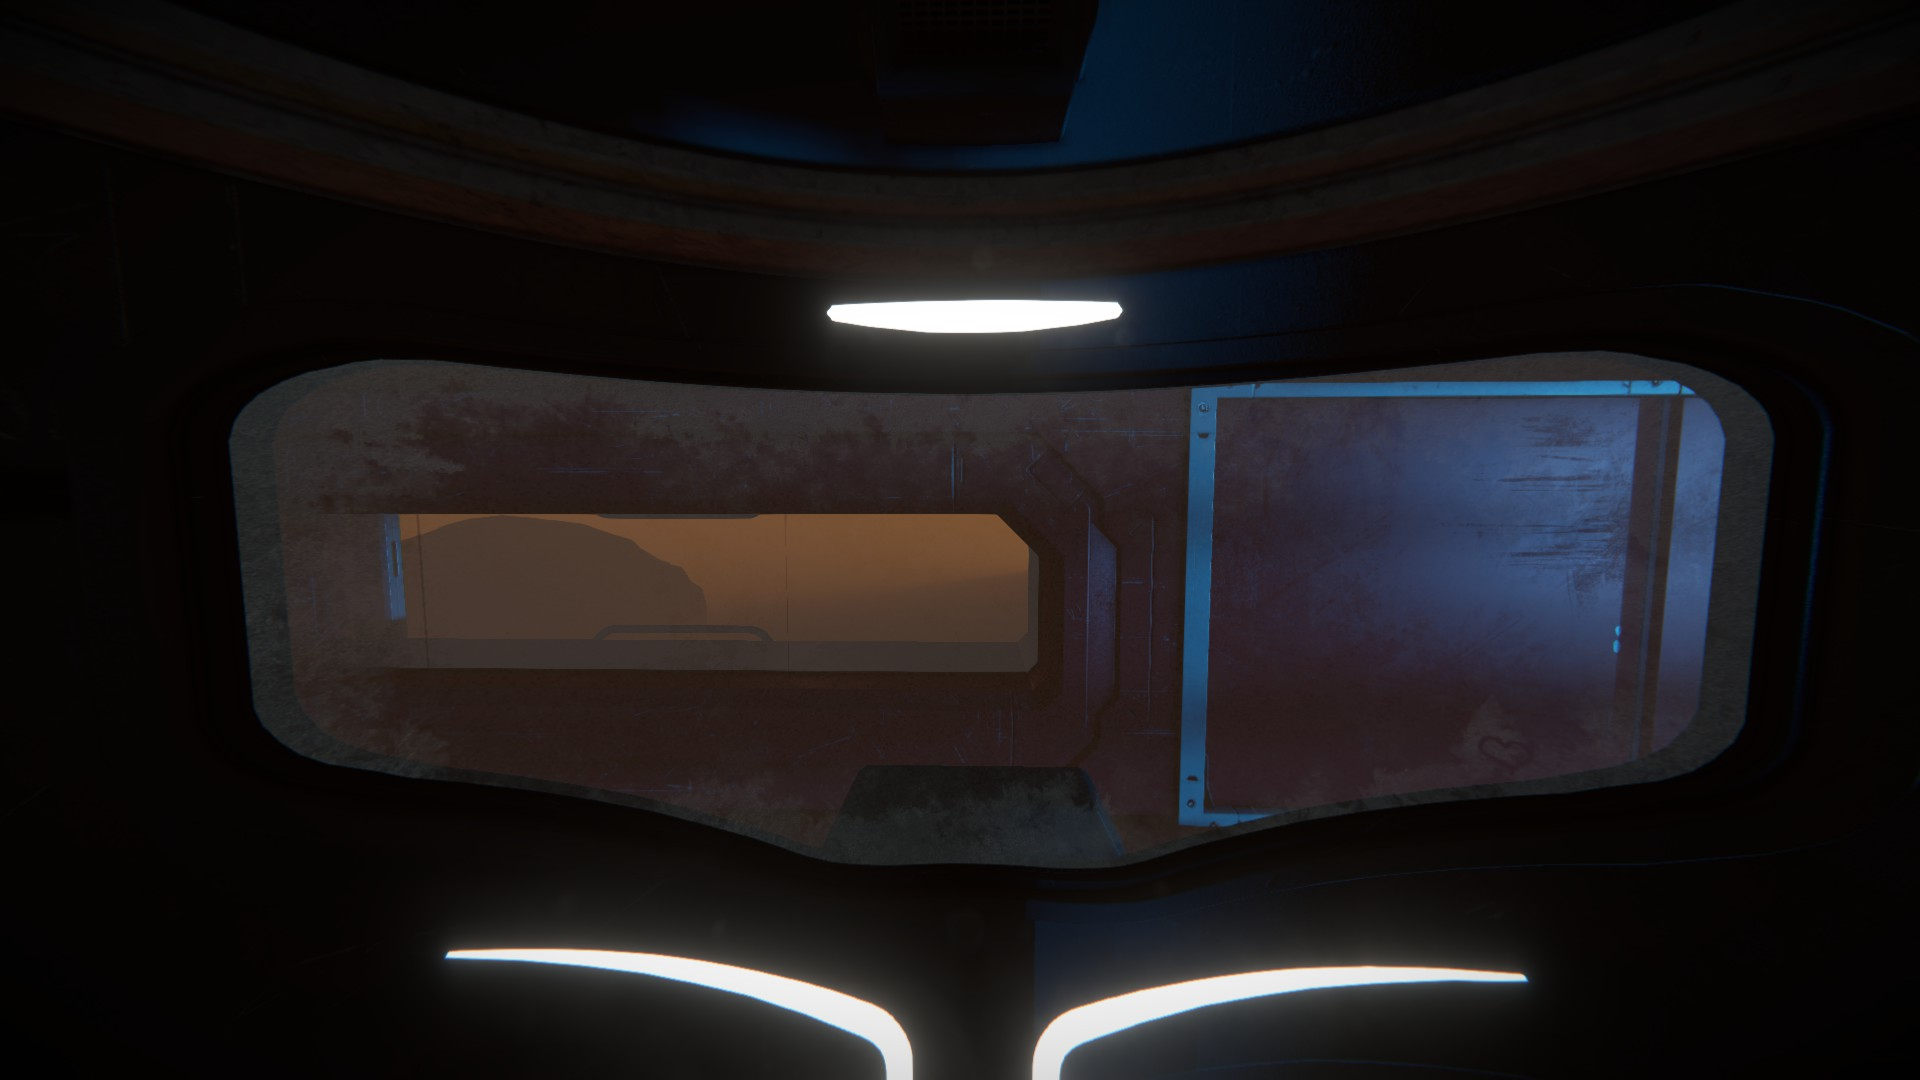
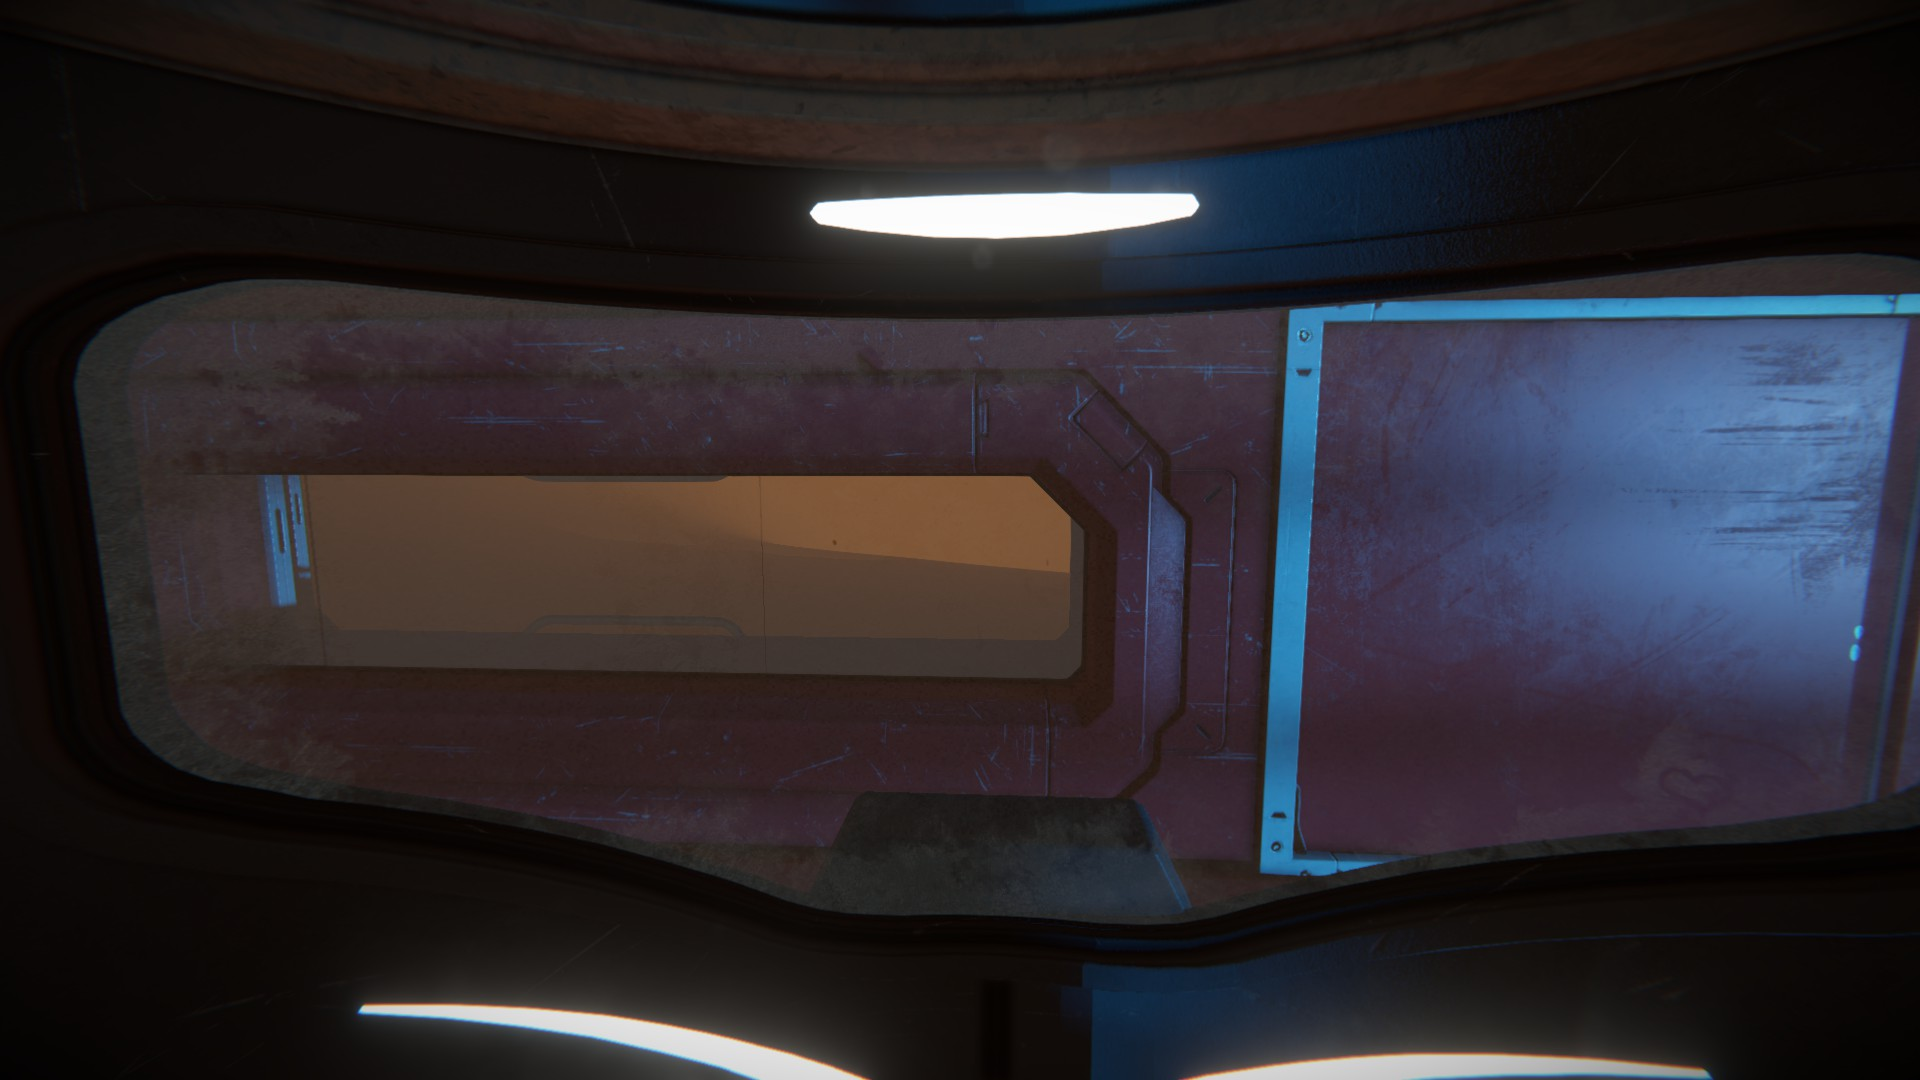
DarrenS: More backgrounds, more css fixes to add them.

diff --git a/Project Badger.html b/Project Badger.html
@@ -273,20 +273,38 @@ div#ui-bar {
 body.shipcryo-css {
 	background-image: url("https://dstults.net/play-badger/images/p1-shipcryo.jpg");
 }
+body.donmask-css {
+	background-image: url("https://dstults.net/play-badger/images/p1-donmask.jpg");
+}p1-offline
 body.shipwindow-css {
 	background-image: url("https://dstults.net/play-badger/images/p1-shipwindow.jpg");
 }
-body.shipcontrols-css {
-	background-image: url("https://dstults.net/play-badger/images/p1-shipcontrols.jpg");
+body.shipoffline-css {
+	background-image: url("https://dstults.net/play-badger/images/p1-offline.jpg");
+}
+body.shiponline-css {
+	background-image: url("https://dstults.net/play-badger/images/p1-online.jpg");
+}
+body.shipcontrols1-css {
+	background-image: url("https://dstults.net/play-badger/images/p1-shipcontrols1.jpg");
+}
+body.shipcontrols2-css {
+	background-image: url("https://dstults.net/play-badger/images/p1-shipcontrols2.jpg");
 }
 body.desert-css {
 	background-image: url("https://dstults.net/play-badger/images/p1-desert.jpg");
+}
+body.crater-css {
+	background-image: url("https://dstults.net/play-badger/images/p1-crater.jpg");
 }
 body.endless-css {
 	background-image: url("https://dstults.net/play-badger/images/p1-endless.jpg");
 }
 body.wravine-css {
 	background-image: url("https://dstults.net/play-badger/images/p1-wravine.jpg");
+}
+body.climbing-css {
+	background-image: url("https://dstults.net/play-badger/images/p1-climbing.jpg");
 }
 body.cravine-css {
 	background-image: url("https://dstults.net/play-badger/images/p1-cravine.jpg");
@@ -323,6 +341,9 @@ body.blast-css {
 }
 body.teleporting-css {
   background-image: url("https://dstults.net/play-badger/images/giphy.gif");
+}
+body.theend-css {
+  background-image: url("https://dstults.net/play-badger/images/theend.jpg");
 }
 
 
@@ -1362,7 +1383,7 @@ Life Support: Minimal
 Commencing cryostorage resuscitation.
 
 &lt;&lt;add-tab&gt;&gt;[[Head...hurts...|Intro (2)]]
-&lt;&lt;/console&gt;&gt;</tw-passagedata><tw-passagedata pid="27" name="Intro (2)" tags="shipwindow-css" position="1200,500" size="100,100">&lt;&lt;audio &quot;door3&quot; play&gt;&gt;&lt;&lt;audio &quot;sand&quot; volume 0.2 loop play&gt;&gt;&lt;&lt;console&gt;&gt;
+&lt;&lt;/console&gt;&gt;</tw-passagedata><tw-passagedata pid="27" name="Intro (2)" tags="donmask-css" position="1200,500" size="100,100">&lt;&lt;audio &quot;door3&quot; play&gt;&gt;&lt;&lt;audio &quot;sand&quot; volume 0.2 loop play&gt;&gt;&lt;&lt;console true&gt;&gt;
 You hobble out of your cryochamber.
 
 Your knees are stiff and weak.
@@ -1372,7 +1393,7 @@ The air is barely breathable.
 You gasp in pain.
 
 &lt;&lt;add-tab&gt;&gt;[[Don Oxygen Mask|Intro (3)]]
-&lt;&lt;/console&gt;&gt;</tw-passagedata><tw-passagedata pid="28" name="Part 1 - Making Repairs" tags="shipcontrols-css" position="1500,500" size="100,100">&lt;&lt;set $gameProgress = 1&gt;&gt;&lt;&lt;include post-score&gt;&gt;&lt;&lt;console&gt;&gt;
+&lt;&lt;/console&gt;&gt;</tw-passagedata><tw-passagedata pid="28" name="Part 1 - Making Repairs" tags="shipoffline-css" position="1500,500" size="100,100">&lt;&lt;set $gameProgress = 1&gt;&gt;&lt;&lt;include post-score&gt;&gt;&lt;&lt;console&gt;&gt;
 You examine the console.
 
 - A retro-thruster snapped off.
@@ -1444,7 +1465,7 @@ It is scary here. You poop your pants. The end.
 &lt;&lt;set $easter3 = false&gt;&gt;
 
 &lt;&lt;set $showEnding = false&gt;&gt;
-</tw-passagedata><tw-passagedata pid="34" name="transition-to-part2-2" tags="shipcontrols-css" position="1900,500" size="100,100">&lt;&lt;audio &quot;classicAlarm&quot; loop play&gt;&gt;&lt;&lt;console&gt;&gt;You hear the Ship&#39;s AI talking over the intercom.
+</tw-passagedata><tw-passagedata pid="34" name="transition-to-part2-2" tags="shiponline-css" position="1900,500" size="100,100">&lt;&lt;audio &quot;classicAlarm&quot; loop play&gt;&gt;&lt;&lt;console&gt;&gt;You hear the Ship&#39;s AI talking over the intercom.
 
 &lt;&lt;ai&gt;&gt;INSUFFICIENT MEMORY, &lt;span&gt;VIRUS DETECTED&lt;/span&gt;.
 
@@ -1453,7 +1474,7 @@ VIRUS CELLS MUST BE ELIMINATED.
 ADVANCE TO MAIN CONSOLE, TERMINATE IMMEDIATELY.&lt;&lt;/ai&gt;&gt;
 
 &lt;&lt;add-tab&gt;&gt;[[Examine Main Console|Part 2]]
-&lt;&lt;/console&gt;&gt;</tw-passagedata><tw-passagedata pid="35" name="Part 2" tags="lifeboard-css shipcontrols-css" position="2100,500" size="100,100">&lt;&lt;set $gameProgress = 2&gt;&gt;&lt;&lt;include post-score&gt;&gt;&lt;&lt;audio &quot;classicAlarm&quot; stop&gt;&gt;&lt;&lt;bgm stop&gt;&gt;&lt;&lt;/bgm&gt;&gt;&lt;&lt;audio &quot;duelinglife-bgm&quot; play&gt;&gt;&lt;&lt;console false &#39;&lt;p class=&quot;centered blinking&quot;&gt;ELIMINATE ALL VIRUSES&lt;/p&gt;&#39;&gt;&gt;&lt;&lt;nobr&gt;&gt;
+&lt;&lt;/console&gt;&gt;</tw-passagedata><tw-passagedata pid="35" name="Part 2" tags="lifeboard-css shipcontrols1-css" position="2100,500" size="100,100">&lt;&lt;set $gameProgress = 2&gt;&gt;&lt;&lt;include post-score&gt;&gt;&lt;&lt;audio &quot;classicAlarm&quot; stop&gt;&gt;&lt;&lt;bgm stop&gt;&gt;&lt;&lt;/bgm&gt;&gt;&lt;&lt;audio &quot;duelinglife-bgm&quot; play&gt;&gt;&lt;&lt;console false &#39;&lt;p class=&quot;centered blinking&quot;&gt;ELIMINATE ALL VIRUSES&lt;/p&gt;&#39;&gt;&gt;&lt;&lt;nobr&gt;&gt;
 &lt;div class=&quot;centered&quot;&gt;
 	&lt;div id=&quot;clock&quot; class=&quot;part2-clock&quot;&gt;
 		T-:40.00
@@ -1474,7 +1495,7 @@ ADVANCE TO MAIN CONSOLE, TERMINATE IMMEDIATELY.&lt;&lt;/ai&gt;&gt;
 	&lt;/button&gt;
 &lt;/div&gt;
 &lt;&lt;/nobr&gt;&gt;
-&lt;&lt;/console&gt;&gt;&lt;&lt;include dueling-life&gt;&gt;</tw-passagedata><tw-passagedata pid="36" name="AI Won" tags="shipcontrols-css" position="2050,800" size="100,100">&lt;&lt;audio &quot;duelinglife-bgm&quot; stop&gt;&gt;&lt;&lt;set $virusWon = false&gt;&gt;&lt;&lt;bgm&gt;&gt;&lt;&lt;/bgm&gt;&gt;&lt;&lt;console&gt;&gt;&lt;&lt;if $easter2&gt;&gt;You got &lt;span&gt;Easter Egg #2&lt;/span&gt;!
+&lt;&lt;/console&gt;&gt;&lt;&lt;include dueling-life&gt;&gt;</tw-passagedata><tw-passagedata pid="36" name="AI Won" tags="shipcontrols2-css" position="2050,800" size="100,100">&lt;&lt;audio &quot;duelinglife-bgm&quot; stop&gt;&gt;&lt;&lt;set $virusWon = false&gt;&gt;&lt;&lt;bgm&gt;&gt;&lt;&lt;/bgm&gt;&gt;&lt;&lt;console&gt;&gt;&lt;&lt;if $easter2&gt;&gt;You got &lt;span&gt;Easter Egg #2&lt;/span&gt;!
 
 &lt;&lt;/if&gt;&gt;&lt;&lt;ai&gt;&gt;Thank you so much for saving me!&lt;&lt;/ai&gt;&gt;
 
@@ -1482,7 +1503,7 @@ You breathe a sigh of relief.
 
 &lt;&lt;ai&gt;&gt;I am detecting an outpost nearby. Go there.&lt;&lt;/ai&gt;&gt;
 &lt;&lt;add-tab&gt;&gt;[[Fly toward the nearby outpost...|transition-to-part3-1]]
-&lt;&lt;/console&gt;&gt;</tw-passagedata><tw-passagedata pid="37" name="Virus Won" tags="shipcontrols-css" position="2150,800" size="100,100">&lt;&lt;audio &quot;duelinglife-bgm&quot; stop&gt;&gt;&lt;&lt;set $virusWon = true&gt;&gt;&lt;&lt;bgm&gt;&gt;&lt;&lt;/bgm&gt;&gt;&lt;&lt;console&gt;&gt;&lt;&lt;if $easter2&gt;&gt;You got &lt;span&gt;Easter Egg #2&lt;/span&gt;!
+&lt;&lt;/console&gt;&gt;</tw-passagedata><tw-passagedata pid="37" name="Virus Won" tags="shipcontrols2-css" position="2150,800" size="100,100">&lt;&lt;audio &quot;duelinglife-bgm&quot; stop&gt;&gt;&lt;&lt;set $virusWon = true&gt;&gt;&lt;&lt;bgm&gt;&gt;&lt;&lt;/bgm&gt;&gt;&lt;&lt;console&gt;&gt;&lt;&lt;if $easter2&gt;&gt;You got &lt;span&gt;Easter Egg #2&lt;/span&gt;!
 
 &lt;&lt;/if&gt;&gt;&lt;&lt;ai&gt;&gt;Wa ha ha ha, fool, now it is my turn!&lt;&lt;/ai&gt;&gt;
 
@@ -1510,7 +1531,7 @@ We must be able to &lt;span&gt;fuel&lt;/span&gt; and &lt;span&gt;ignite&lt;/span
 hyperdrive.&lt;&lt;/ai&gt;&gt;
 &lt;&lt;add-tab&gt;&gt;[[Continue...|Part 3]]
 &lt;&lt;/console&gt;&gt;
-</tw-passagedata><tw-passagedata pid="40" name="transition-to-part2-1" tags="shipcontrols-css" position="1700,500" size="100,100">&lt;&lt;bgm stop&gt;&gt;&lt;&lt;/bgm&gt;&gt;&lt;&lt;audio &quot;sand&quot; stop&gt;&gt;&lt;&lt;audio &quot;engine-fail&quot; play&gt;&gt;&lt;&lt;console true&gt;&gt;
+</tw-passagedata><tw-passagedata pid="40" name="transition-to-part2-1" tags="shiponline-css" position="1700,500" size="100,100">&lt;&lt;bgm stop&gt;&gt;&lt;&lt;/bgm&gt;&gt;&lt;&lt;audio &quot;sand&quot; stop&gt;&gt;&lt;&lt;audio &quot;engine-fail&quot; play&gt;&gt;&lt;&lt;console true&gt;&gt;
 You attempt to start the engines.
 
 They hum and whiz.
@@ -1562,7 +1583,7 @@ Carried Part:
 &lt;&lt;if $hasBattery&gt;&gt;&lt;span&gt;Battery&lt;/span&gt;&lt;&lt;/if&gt;&gt;
 &lt;&lt;if $hasThruster&gt;&gt;&lt;span&gt;Thruster&lt;/span&gt;&lt;&lt;/if&gt;&gt;
 &lt;&lt;if !$hasThruster &amp;&amp; !$hasBattery&gt;&gt;none&lt;&lt;/if&gt;&gt;
-&lt;&lt;/nobr&gt;&gt;</tw-passagedata><tw-passagedata pid="45" name="ML Spaceship" tags="shipcontrols-css" position="1650,775" size="100,100">&lt;&lt;bgm&gt;&gt;&lt;&lt;/bgm&gt;&gt;&lt;&lt;audio &quot;sand&quot; volume 0.5 loop play&gt;&gt;&lt;&lt;set $location = $shipName&gt;&gt;&lt;&lt;console&gt;&gt;
+&lt;&lt;/nobr&gt;&gt;</tw-passagedata><tw-passagedata pid="45" name="ML Spaceship" tags="shipoffline-css" position="1650,775" size="100,100">&lt;&lt;bgm&gt;&gt;&lt;&lt;/bgm&gt;&gt;&lt;&lt;audio &quot;sand&quot; volume 0.5 loop play&gt;&gt;&lt;&lt;set $location = $shipName&gt;&gt;&lt;&lt;console&gt;&gt;
 You examine the console.
 
 SYSTEM STATUS:&lt;&lt;if !$thrusterAttached || !$batteryDrained&gt;&gt;
@@ -1651,7 +1672,7 @@ the sand below you.
 &lt;&lt;add-tab&gt;&gt;
 &lt;&lt;add-tab&gt;&gt;
 &lt;&lt;add-tab&gt;&gt;&lt;&lt;include carried-part&gt;&gt;
-&lt;&lt;/console&gt;&gt;&lt;&lt;include map-ml&gt;&gt;</tw-passagedata><tw-passagedata pid="50" name="Attach Thruster" tags="" position="1675,1125" size="100,100">&lt;&lt;console&gt;&gt;
+&lt;&lt;/console&gt;&gt;&lt;&lt;include map-ml&gt;&gt;</tw-passagedata><tw-passagedata pid="50" name="Attach Thruster" tags="cravine-css" position="1675,1125" size="100,100">&lt;&lt;console&gt;&gt;
 You manage to lug the thruster atop your spaceship.
 &lt;&lt;set $hasThruster = false&gt;&gt;&lt;&lt;set $thrusterAttached = true&gt;&gt;
 The magneto-thermosprites immediately readhere. You rotate
@@ -1664,7 +1685,7 @@ Finally, you dust off your hands at a job well done.
 &lt;&lt;add-tab&gt;&gt;
 &lt;&lt;add-tab&gt;&gt;
 &lt;&lt;add-tab&gt;&gt;&lt;&lt;include carried-part&gt;&gt;
-&lt;&lt;/console&gt;&gt;&lt;&lt;include map-ml&gt;&gt;</tw-passagedata><tw-passagedata pid="51" name="Drain Battery" tags="" position="1800,1100" size="100,100">&lt;&lt;console&gt;&gt;
+&lt;&lt;/console&gt;&gt;&lt;&lt;include map-ml&gt;&gt;</tw-passagedata><tw-passagedata pid="51" name="Drain Battery" tags="cravine-css" position="1800,1100" size="100,100">&lt;&lt;console&gt;&gt;
 You connect the battery to your ship. Success!
 &lt;&lt;set $hasBattery = false&gt;&gt;&lt;&lt;set $batteryDrained = true&gt;&gt;
 The battery begins quickly transferring its sweet, sweet 
@@ -1700,7 +1721,7 @@ You think you see a crater...
 &lt;&lt;add-tab&gt;&gt;
 &lt;&lt;add-tab&gt;&gt;
 &lt;&lt;add-tab&gt;&gt;&lt;&lt;include carried-part&gt;&gt;
-&lt;&lt;/console&gt;&gt;&lt;&lt;include map-ml&gt;&gt;</tw-passagedata><tw-passagedata pid="54" name="ML Easter Egg" tags="endless-css" position="1600,1300" size="100,100">&lt;&lt;audio &quot;sand&quot; volume 0.2 loop play&gt;&gt;&lt;&lt;audio &quot;scaryWind&quot; volume 1 loop play&gt;&gt;&lt;&lt;console&gt;&gt;
+&lt;&lt;/console&gt;&gt;&lt;&lt;include map-ml&gt;&gt;</tw-passagedata><tw-passagedata pid="54" name="ML Easter Egg" tags="crater-css" position="1600,1300" size="100,100">&lt;&lt;audio &quot;sand&quot; volume 0.2 loop play&gt;&gt;&lt;&lt;audio &quot;scaryWind&quot; volume 1 loop play&gt;&gt;&lt;&lt;console&gt;&gt;
 As you approach the cusp of the crater, you look down.
 
 You think you see a structure below...
@@ -1742,7 +1763,7 @@ Brrrttt!! Incorrect Code!
 &lt;&lt;add-tab&gt;&gt;&lt;&lt;if !$showEnding&gt;&gt;[[Enter the control room|OP Control Room]]&lt;&lt;/if&gt;&gt;
 &lt;&lt;add-tab&gt;&gt;
 &lt;&lt;add-tab&gt;&gt;$tools
-&lt;&lt;/console&gt;&gt;&lt;&lt;include map-op&gt;&gt;</tw-passagedata><tw-passagedata pid="57" name="check-complete" tags="" position="3000,1300" size="100,100">&lt;&lt;if $hasHyperplugs &amp; $hasFuelRods&gt;&gt;&lt;&lt;set $showEnding = true&gt;&gt;&lt;&lt;/if&gt;&gt;</tw-passagedata><tw-passagedata pid="58" name="Credits" tags="" position="900,1600" size="100,100">&lt;&lt;console&gt;&gt;
+&lt;&lt;/console&gt;&gt;&lt;&lt;include map-op&gt;&gt;</tw-passagedata><tw-passagedata pid="57" name="check-complete" tags="" position="3000,1300" size="100,100">&lt;&lt;if $hasHyperplugs &amp; $hasFuelRods&gt;&gt;&lt;&lt;set $showEnding = true&gt;&gt;&lt;&lt;/if&gt;&gt;</tw-passagedata><tw-passagedata pid="58" name="Credits" tags="" position="1100,1600" size="100,100">&lt;&lt;console&gt;&gt;
 &lt;h1&gt;Credits&lt;/h1&gt;
 Patrick Normile
 Ahmed Elmi
@@ -1754,7 +1775,7 @@ music,
 sounds etc.
 
 &lt;&lt;add-tab&gt;&gt;[[Score Report|Display Scores]]
-&lt;&lt;/console&gt;&gt;</tw-passagedata><tw-passagedata pid="59" name="Mission Complete" tags="" position="2300,1700" size="100,100">&lt;&lt;set $gameProgress = 4&gt;&gt;&lt;&lt;include post-score&gt;&gt;&lt;&lt;audio &quot;drone&quot; stop&gt;&gt;&lt;&lt;bgm stop&gt;&gt;&lt;&lt;/bgm&gt;&gt;&lt;&lt;audio &quot;outro&quot; loop play&gt;&gt;&lt;&lt;set $location = $shipName&gt;&gt;&lt;&lt;console&gt;&gt;
+&lt;&lt;/console&gt;&gt;</tw-passagedata><tw-passagedata pid="59" name="Mission Complete" tags="theend-css" position="2300,1700" size="100,100">&lt;&lt;set $gameProgress = 4&gt;&gt;&lt;&lt;include post-score&gt;&gt;&lt;&lt;audio &quot;drone&quot; stop&gt;&gt;&lt;&lt;bgm stop&gt;&gt;&lt;&lt;/bgm&gt;&gt;&lt;&lt;audio &quot;outro&quot; loop play&gt;&gt;&lt;&lt;set $location = $shipName&gt;&gt;&lt;&lt;console&gt;&gt;
 &lt;&lt;ai&gt;&gt;Marvelous! We can now finish our quest to save
 the universe!
 
